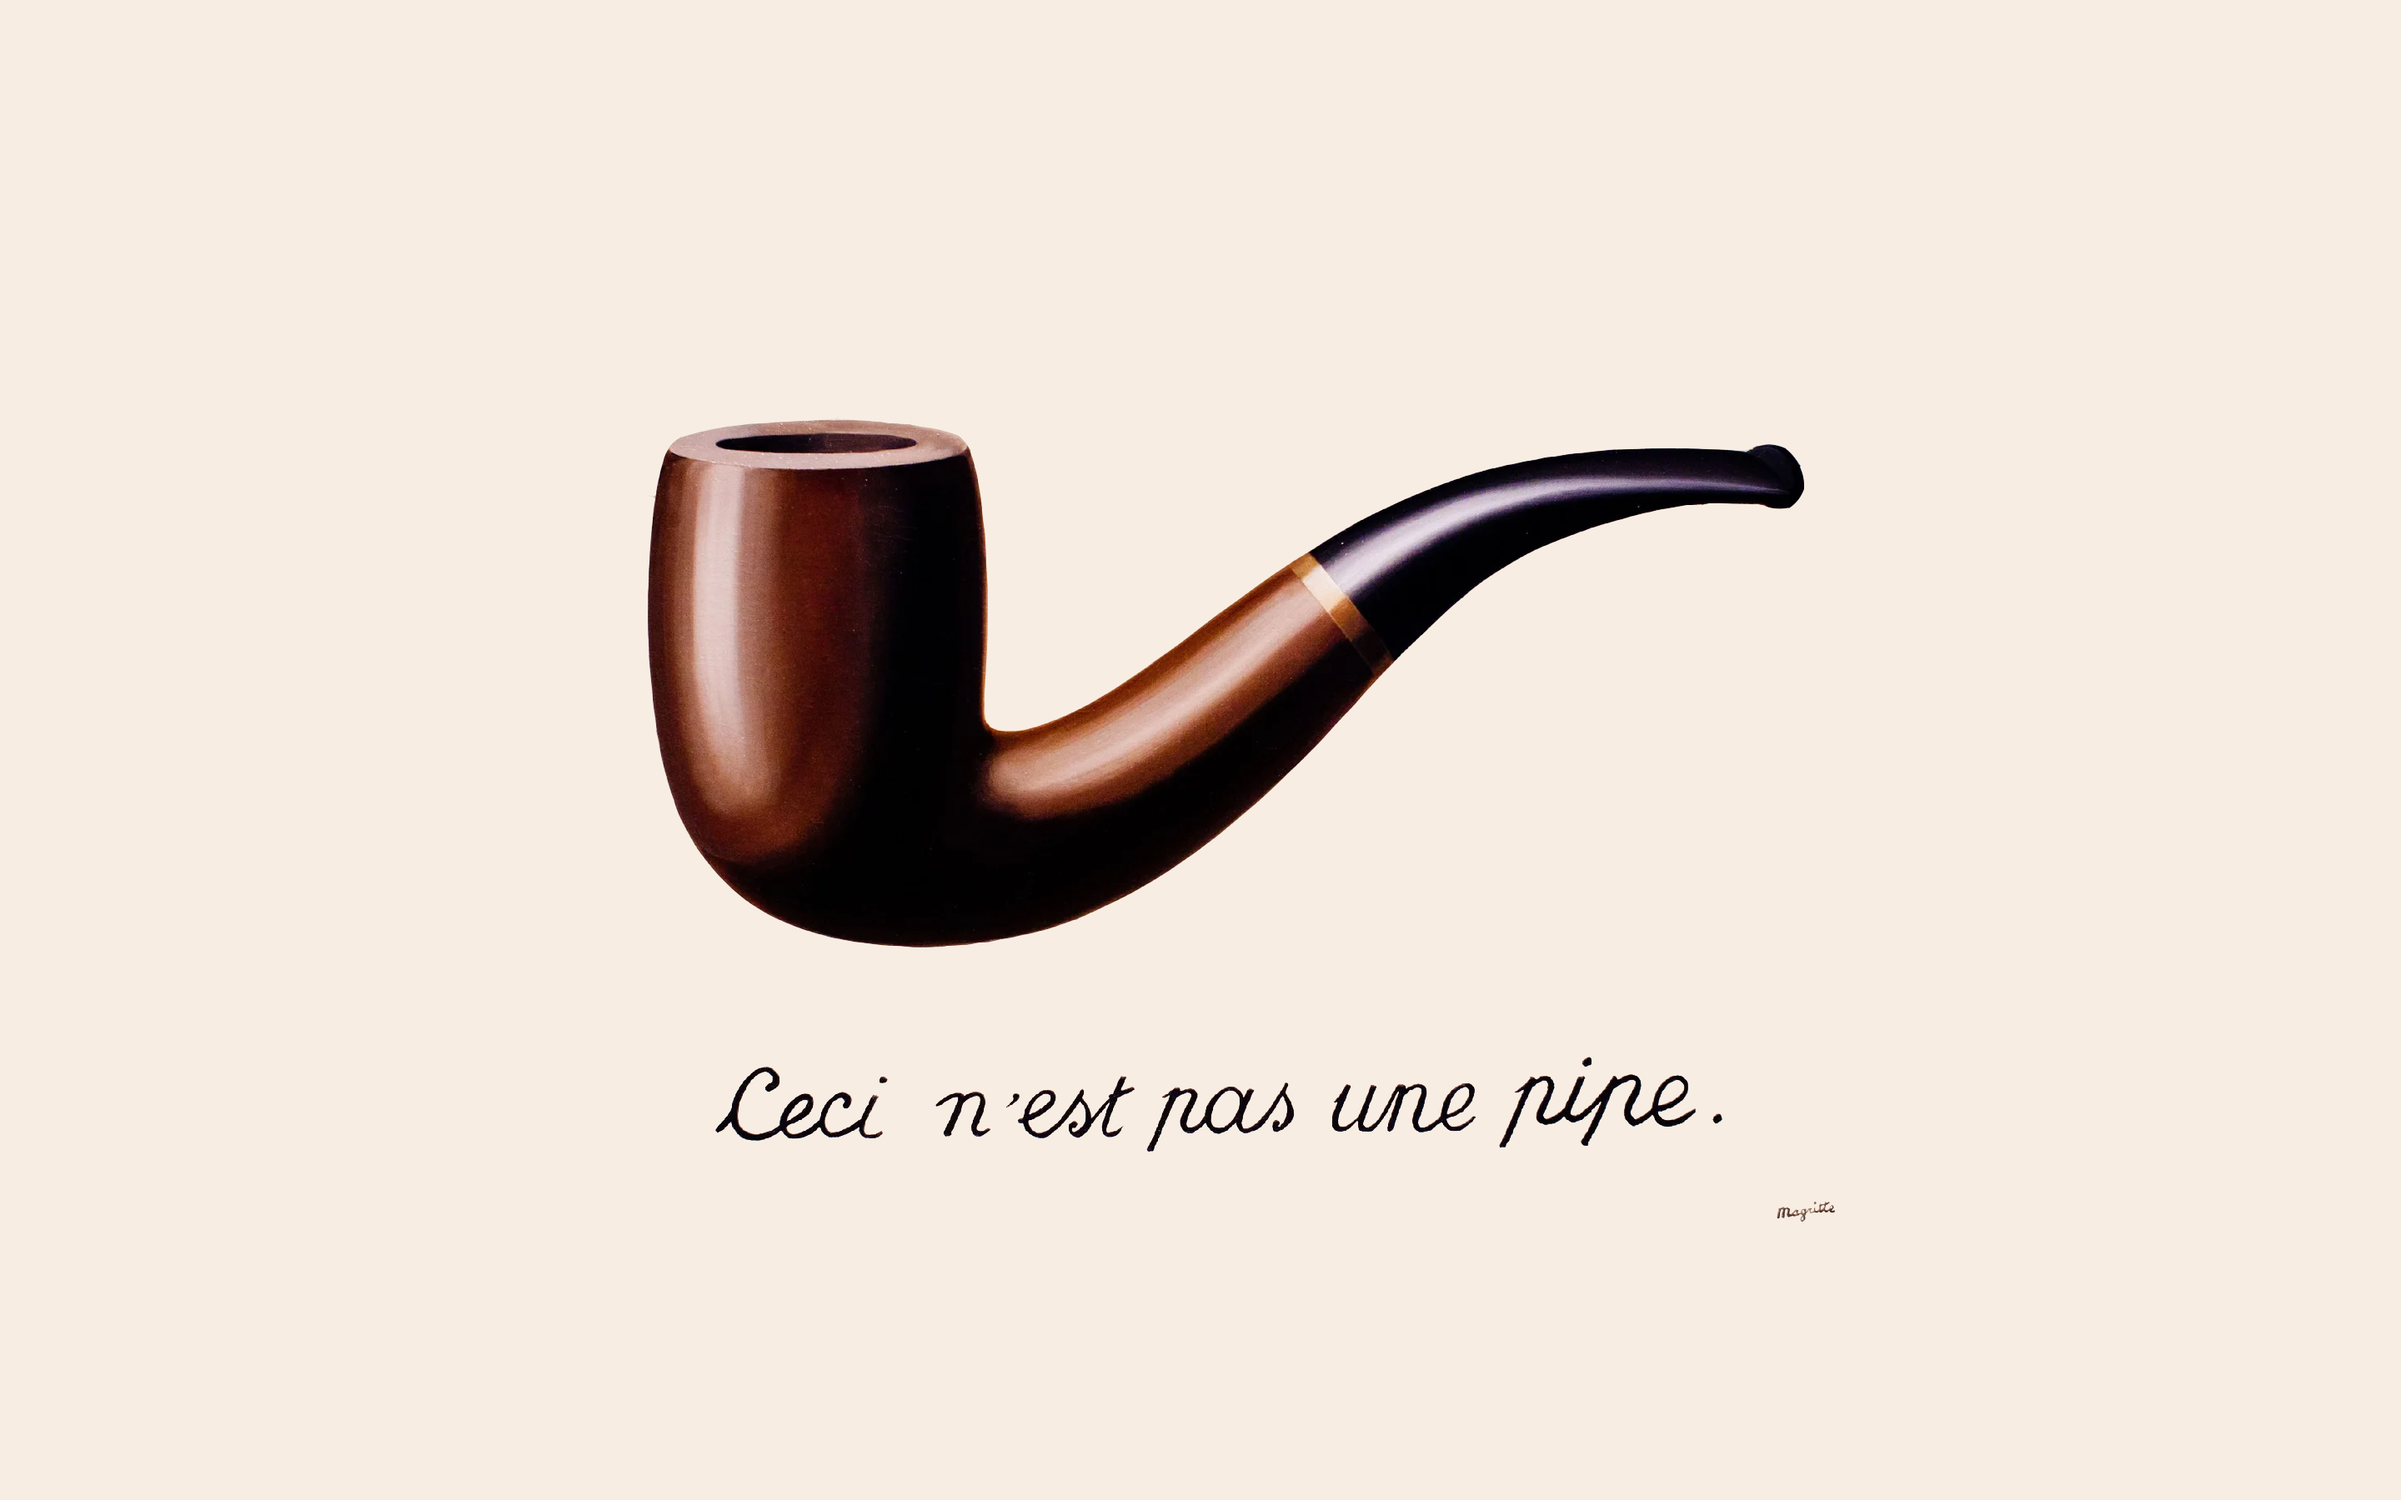
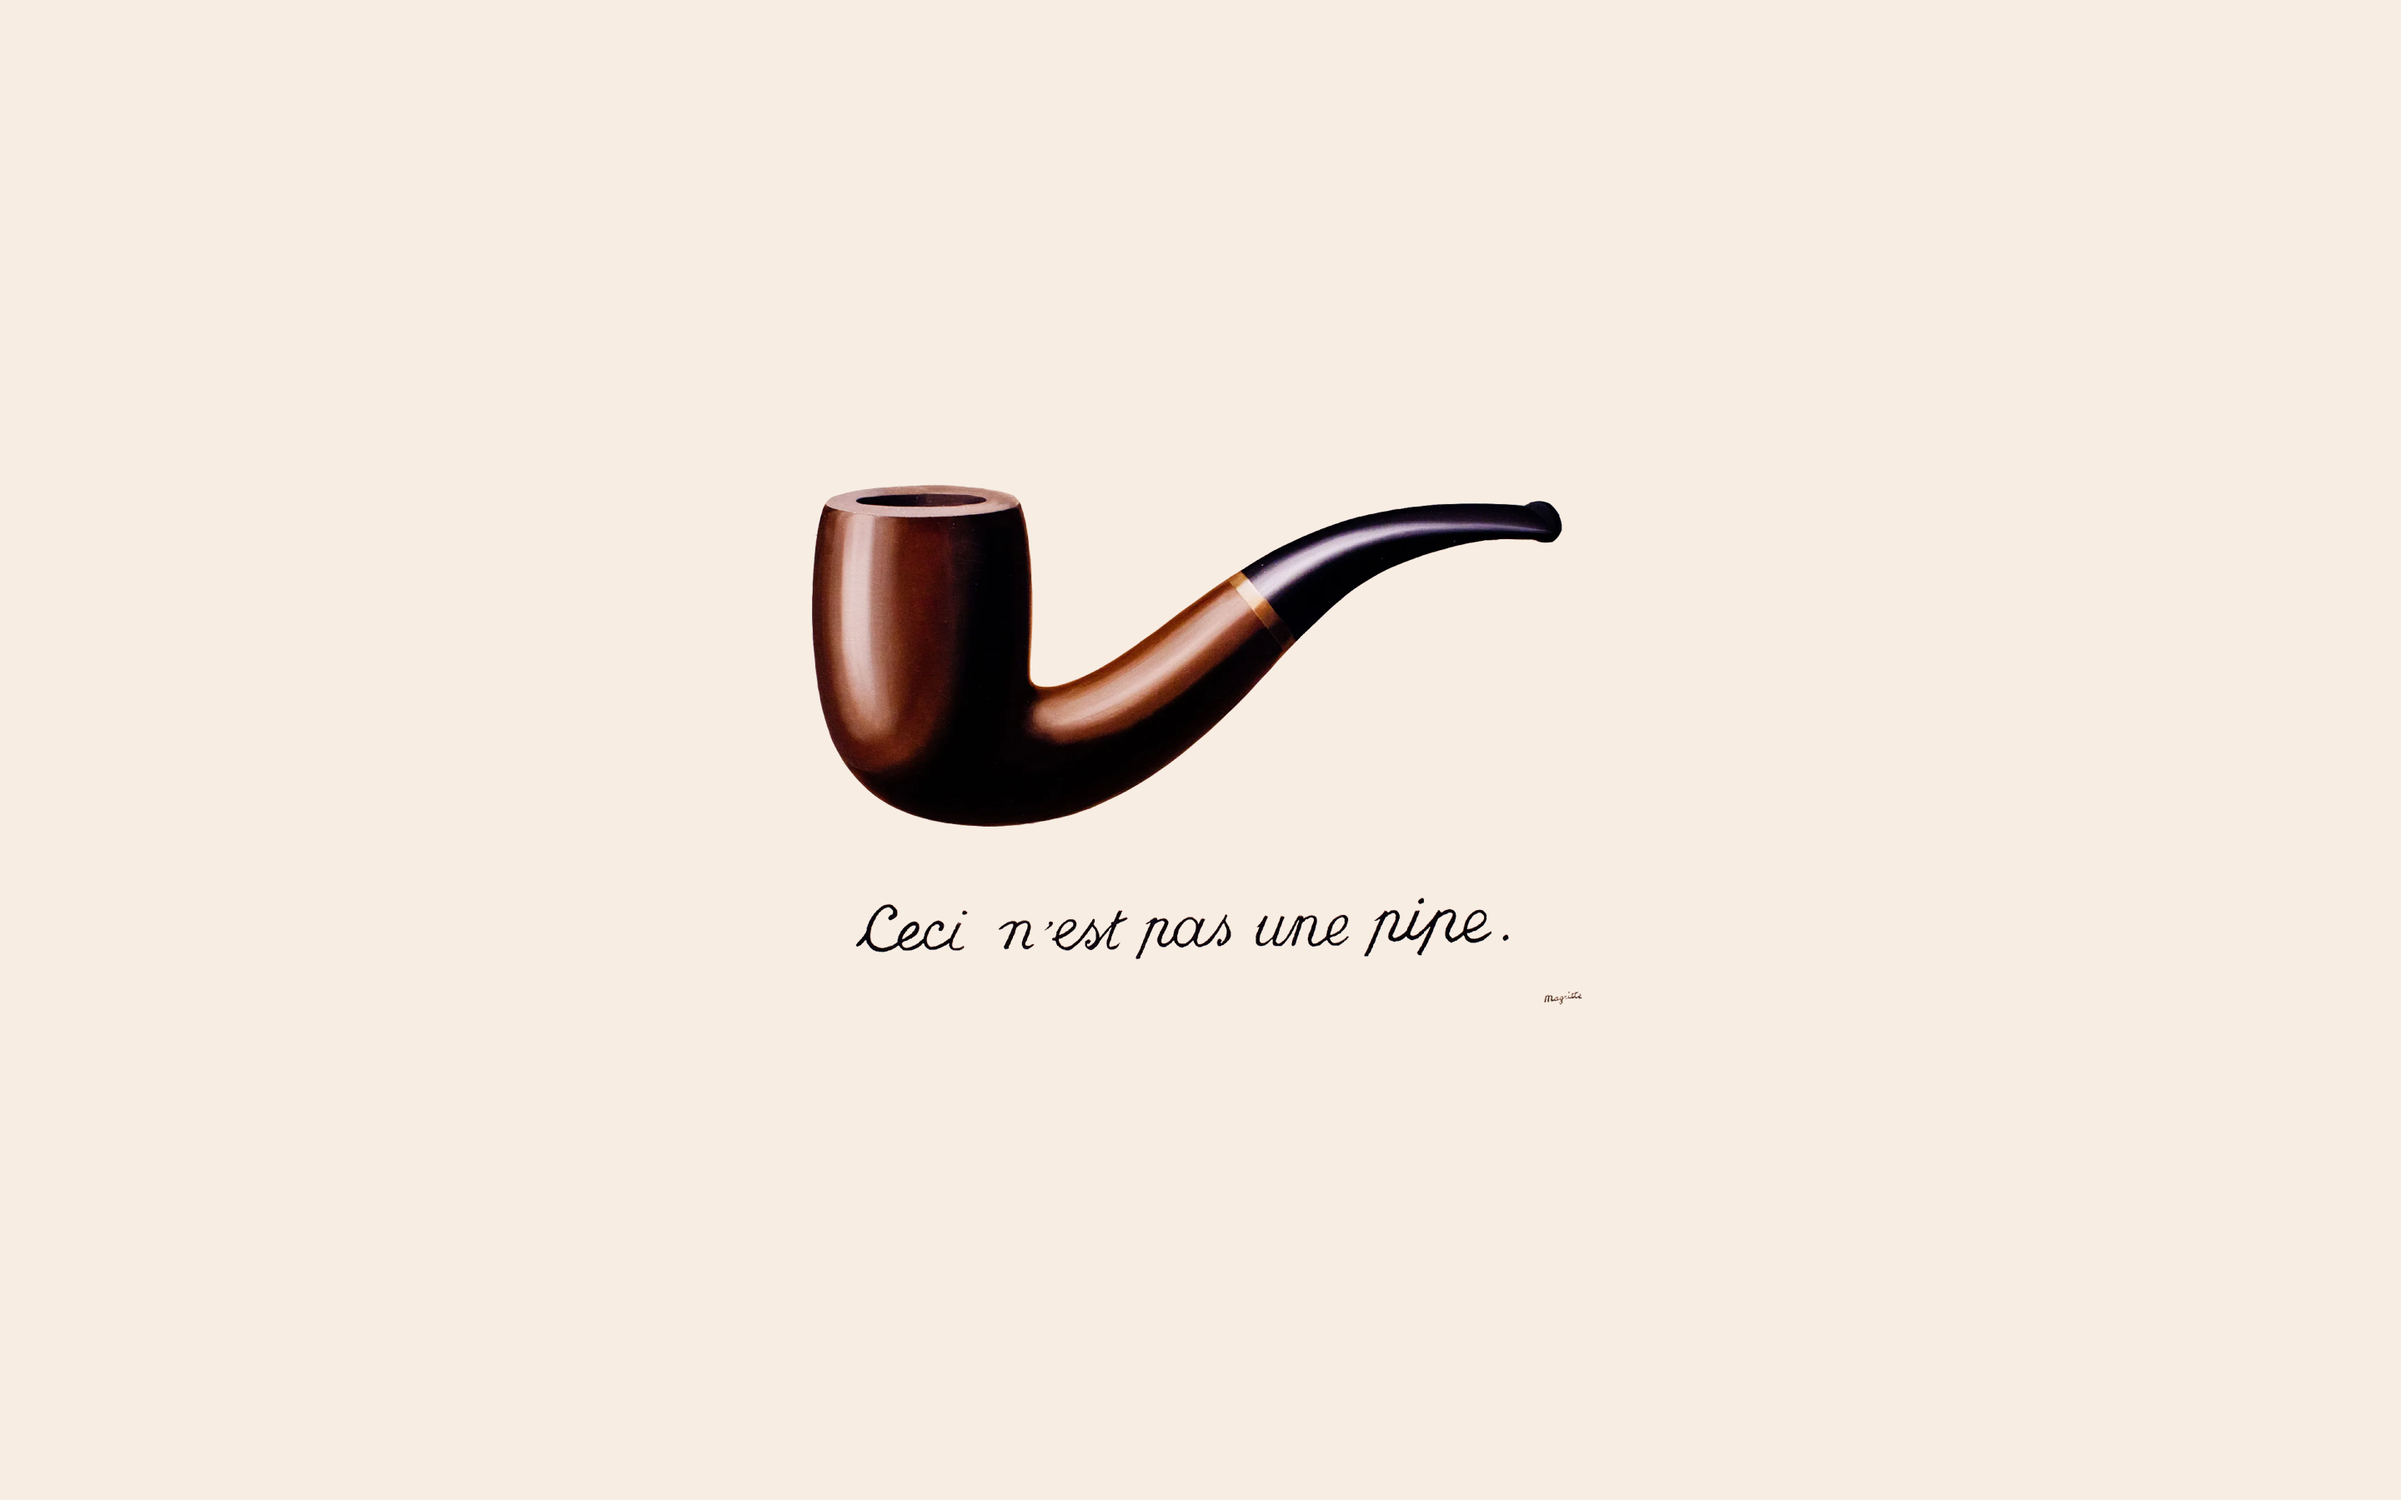
redesign

Changed region(s): [[0.25, 0.28, 0.75, 0.6533], [0.2812, 0.7156, 0.7188, 0.7778], [0.5312, 0.5911, 0.625, 0.6533]]

diff --git a/app.js b/app.js
@@ -1,6 +1,3 @@
-import { Drop } from "./drop.js";
-import { Pixel } from "./pixel.js";
-
 class App {
   constructor() {
     this.canvas = document.createElement("canvas");
@@ -12,18 +9,15 @@ class App {
 
     this.pixelRatio = window.devicePixelRatio > 1 ? 2 : 1;
 
-    this.drop = new Drop();
-
     window.addEventListener("resize", this.resize.bind(this), false);
     this.resize();
 
     // document.addEventListener("pointerdown", this.onDown.bind(this), false);
     // document.addEventListener("pointermove", this.onMove.bind(this), false);
     // document.addEventListener("pointerup", this.onUp.bind(this), false);
+    this.cards = [];
 
-    this.width = 10;
-    this.pixelSize = 10;
-    this.pixels = [];
+    this.cardSize = 30;
 
     this.isLoaded = false;
     this.imgPos = {
@@ -34,7 +28,7 @@ class App {
     };
 
     this.image = new Image();
-    this.image.src = "this_is_not_a_pipe.png";
+    this.image.src = "this_is_not_a_pipe_bg.png";
     this.image.onload = () => {
       this.isLoaded = true;
       this.drawImage();
@@ -50,14 +44,10 @@ class App {
 
     this.ctx.scale(this.pixelRatio, this.pixelRatio);
 
-    this.tmpCanvas.width = this.stageWidth;
-    this.tmpCanvas.height = this.stageHeight;
-
-    this.drop.resize(this.stageWidth, this.stageHeight);
-
     if (this.isLoaded) {
       this.drawImage();
     }
+
     window.requestAnimationFrame(this.animate.bind(this));
     this.canvas.addEventListener("click", this.onClick.bind(this), false);
   }
@@ -66,18 +56,21 @@ class App {
     const stageRatio = this.stageWidth / this.stageHeight;
     const imgRatio = this.image.width / this.image.height;
 
-    console.log(this.imgPos.width, this.imgPos.height);
+    this.imgPos.width = this.stageWidth;
+    this.imgPos.height = this.stageHeight;
 
-    if (stageRatio < 1) {
-      this.imgPos.width = this.stageWidth / 2;
-      this.imgPos.height = this.imgPos.width / imgRatio;
+    if (imgRatio > stageRatio) {
+      this.imgPos.width = Math.round(
+        this.image.width * (this.stageHeight / this.image.height)
+      );
+      this.imgPos.x = Math.round((this.stageWidth - this.imgPos.width) / 2);
     } else {
-      this.imgPos.width = this.stageWidth / 3;
-      this.imgPos.height = this.imgPos.width / imgRatio;
-    }
+      this.imgPos.height = Math.round(
+        this.image.height * (this.stageWidth / this.image.width)
+      );
 
-    this.imgPos.x = (this.stageWidth - this.imgPos.width) / 2;
-    this.imgPos.y = (this.stageHeight - this.imgPos.height) / 2;
+      this.imgPos.y = Math.round((this.stageHeight - this.imgPos.height) / 2);
+    }
 
     this.ctx.drawImage(
       this.image,
@@ -91,69 +84,21 @@ class App {
       this.imgPos.width,
       this.imgPos.height
     );
-
-    this.tmpCtx.drawImage(
-      this.image,
-      0,
-      0,
-      this.image.width,
-      this.image.height,
-
-      this.imgPos.x,
-      this.imgPos.y,
-      this.imgPos.width,
-      this.imgPos.height
-    );
-
-    this.imgData = this.tmpCtx.getImageData(
-      0,
-      0,
-      this.stageWidth,
-      this.stageHeight
-    );
-
-    this.drawPixels();
   }
 
-  drawPixels() {
-    this.pixels = [];
+  getCardPositions() {
+    this.cards = [];
 
     this.columns = Math.ceil(this.stageWidth / this.pixelSize);
     this.rows = Math.ceil(this.stageHeight / this.pixelSize);
-
-    for (let i = 0; i < this.rows; i++) {
-      const y = (i + 0.5) * this.pixelSize;
-      const pixelY = Math.max(Math.min(y, this.stageHeight), 0);
-
-      for (let j = 0; j < this.columns; j++) {
-        const x = (j + 0.5) * this.pixelSize;
-        const pixelX = Math.max(Math.min(x, this.stageWidth), 0);
-
-        const pixelIndex = (pixelX + pixelY * this.stageWidth) * 4;
-        const red = this.imgData.data[pixelIndex + 0];
-        const green = this.imgData.data[pixelIndex + 1];
-        const blue = this.imgData.data[pixelIndex + 2];
-        const alpha = this.imgData.data[pixelIndex + 3];
-
-        const pixel = new Pixel(x, y, this.pixelSize, red, green, blue, alpha);
-
-        this.pixels.push(pixel);
-      }
-    }
   }
 
   animate(t) {
-    window.requestAnimationFrame(this.animate.bind(this));
-    // this.ctx.clearRect(0, 0, this.stageWidth, this.stageHeight);
+    // window.requestAnimationFrame(this.animate.bind(this));
   }
 
   onClick(e) {
-    this.ctx.clearRect(0, 0, this.stageWidth, this.stageHeight);
-    for (let i = 0; i < this.pixels.length; i++) {
-      const pixel = this.pixels[i];
-      console.log(pixel);
-      pixel.animate(this.ctx);
-    }
+    window.requestAnimationFrame(this.animate.bind(this));
   }
 }
 

diff --git a/eyelid.js b/eyelid.js
@@ -1,0 +1,69 @@
+export class Eyelid {
+  constructor() {
+    this.speed = Math.random() * 2 + 100;
+  }
+
+  resize(stageWidth, stageHeight) {
+    this.stageWidth = stageWidth;
+    this.stageHeight = stageHeight;
+
+    this.cx = this.stageWidth / 2;
+    this.cy1 = 0 - this.stageHeight;
+    this.cy = 0 - this.stageHeight;
+    this.cy2 = this.stageHeight + this.stageHeight;
+    this.sx = 0 - this.stageWidth / 5;
+    this.sy = this.stageHeight / 2;
+    this.dx = this.stageWidth + this.stageWidth / 5;
+    this.dy = this.stageHeight / 2;
+    this.ty = 0;
+    this.by = this.stageHeight + this.stageHeight / 5;
+  }
+
+  openEye(cy1, cy2) {
+    if (cy1 > this.dy) {
+      this.speed *= -1;
+      cy1 += this.speed;
+      cy2 -= this.speed;
+    }
+  }
+
+  closeEye(cy1) {
+    if (cy1 < this.cy) {
+      this.speed = 0;
+    }
+  }
+
+  animate(ctx) {
+    this.cy1 += this.speed;
+    this.cy2 -= this.speed;
+    ctx.save();
+
+    this.openEye(this.cy1, this.cy2);
+    this.closeEye(this.cy1, this.cy2);
+
+    ctx.fillStyle = "#00ff00";
+
+    ctx.beginPath();
+    ctx.fillStyle = "#000000";
+    ctx.moveTo(this.sx, this.sy);
+
+    ctx.quadraticCurveTo(this.cx, this.cy1, this.dx, this.dy);
+
+    ctx.lineTo(this.dx, this.ty);
+    ctx.lineTo(this.sx, this.ty);
+    ctx.fill();
+    ctx.closePath();
+
+    ctx.beginPath();
+    ctx.fillStyle = "#000000";
+    ctx.moveTo(this.sx, this.sy);
+
+    ctx.quadraticCurveTo(this.cx, this.cy2, this.dx, this.dy);
+
+    ctx.lineTo(this.dx, this.by);
+    ctx.lineTo(this.sx, this.by);
+    ctx.fill();
+    ctx.closePath();
+    ctx.restore();
+  }
+}

diff --git a/eye-controller.js b/eye-controller.js
@@ -1,0 +1,57 @@
+import { Eyelid } from "./eyelid.js";
+
+export class EyeController {
+  constructor() {
+    this.totalEyelids = 2;
+
+    this.eyelids = [];
+
+    if (this.eyelids.length == 1) {
+      this.cy = this.stageHeight - 1;
+      this.py = this.stageHeight;
+    } else {
+      this.cy = 1;
+      this.py = 0;
+    }
+    console.log(this.cy, this.py, this.stageWidth, this.stageHeight);
+    this.eyelids.push(
+      new Eyelid(this.cy, this.py, this.stageWidth, this.stageHeight)
+    );
+  }
+
+  resize(stageWidth, stageHeight) {
+    this.stageWidth = stageWidth;
+    this.stageHeight = stageHeight;
+
+    this.eyelids = [];
+  }
+
+  addEyelid() {
+    if (this.eyelids.length == 1) {
+      this.cy = this.stageHeight - 1;
+      this.py = this.stageHeight;
+    } else {
+      this.cy = 1;
+      this.py = 0;
+    }
+    console.log(this.cy, this.py, this.stageWidth, this.stageHeight);
+    this.eyelids.push(
+      new Eyelid(this.cy, this.py, this.stageWidth, this.stageHeight)
+    );
+  }
+
+  draw(ctx) {
+    if (this.eyelids.length < 2) {
+      this.addEyelid();
+    }
+    for (let i = this.totalEyelids - 1; i >= 0; i--) {
+      console.log(this.eyelids);
+      const eyelid = this.eyelids[i];
+      if (eyelid.cy == 0 || eyelid.cy == this.stageHeight) {
+        this.eyelids.splice(i, 1);
+      } else {
+        eyelid.animate(ctx);
+      }
+    }
+  }
+}

diff --git a/pixel.js b/pixel.js
@@ -11,8 +11,7 @@ export class Pixel {
     this.alpha = alpha;
   }
 
-  animate(ctx) {
-    console.log(this.x, this.y, this.pixelSize, this.pixelSize);
+  draw(ctx) {
     ctx.beginPath();
     ctx.fillStyle =
       "rgba(" +
